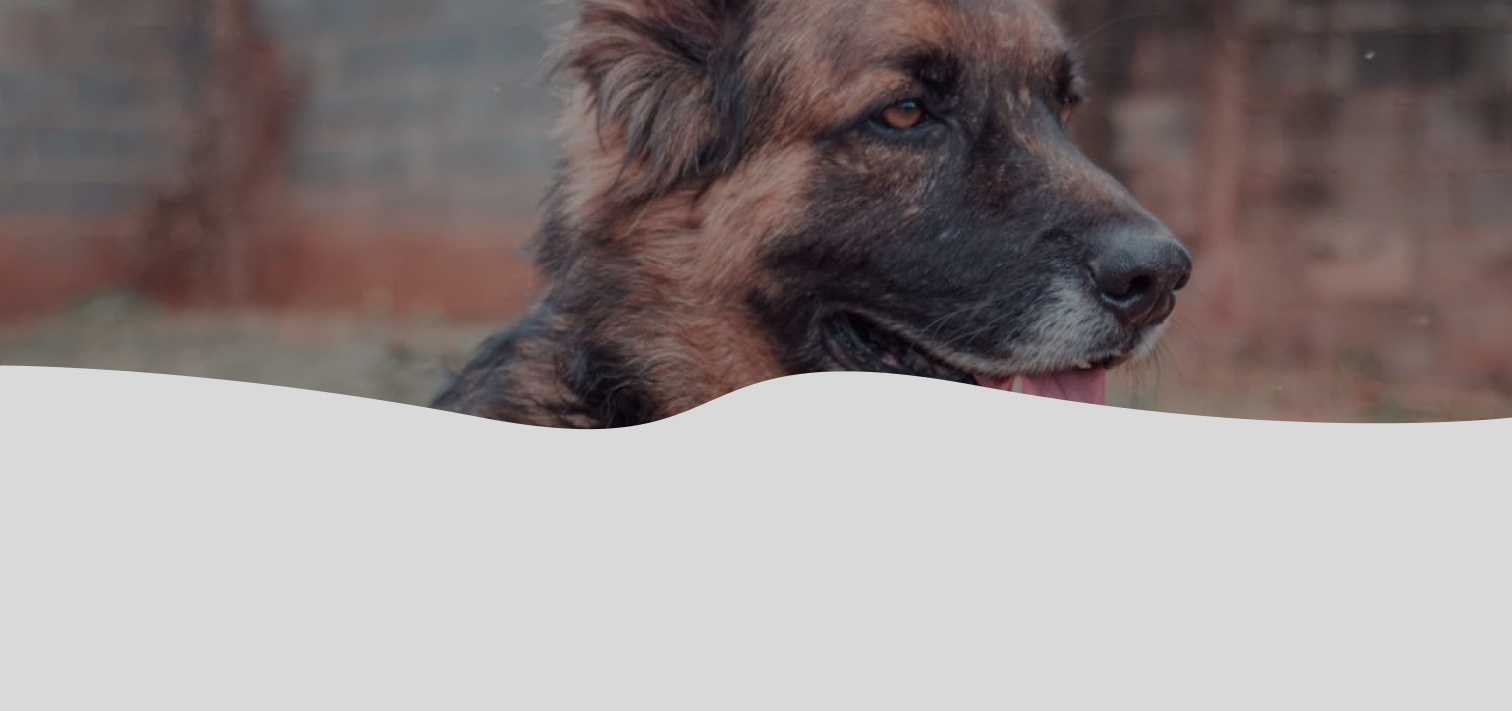
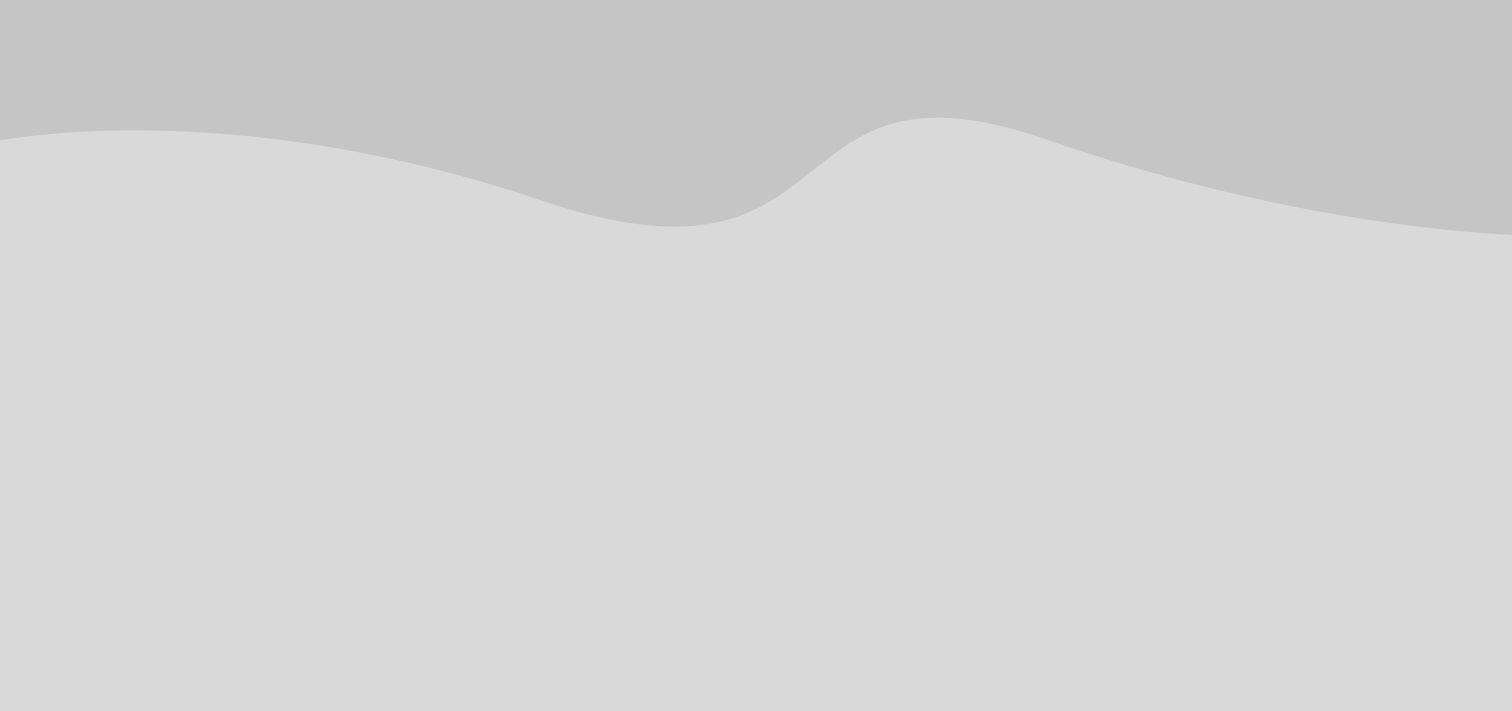
feat: carousel content

diff --git a/src/components/carousel/carousel.component.tsx b/src/components/carousel/carousel.component.tsx
@@ -1,0 +1,57 @@
+import React from 'react';
+import * as S from './carousel.styles';
+import { Virtual, Navigation, Pagination, FreeMode, Autoplay } from 'swiper';
+import { Swiper, SwiperSlide } from 'swiper/react';
+// Import Swiper styles
+import 'swiper/css';
+import 'swiper/css/pagination';
+import 'swiper/css/navigation';
+// install Virtual module
+
+export function Carousel() {
+  return (
+    <>
+      <S.Container>
+        <Swiper
+          slidesPerView={3}
+          spaceBetween={30}
+          freeMode={true}
+          autoplay={{
+            delay: 900,
+            disableOnInteraction: false,
+          }}
+          pagination={{
+            clickable: true,
+          }}
+          modules={[FreeMode, Pagination, Autoplay]}
+          className='mySwiper'
+        >
+          <SwiperSlide>
+            <S.Card>
+              <img src='https://i.im.ge/2022/08/03/FC32AT.dog1.png' alt='' />
+              <S.CardBody>
+                <S.Name>Billy</S.Name>
+              </S.CardBody>
+            </S.Card>
+          </SwiperSlide>
+          <SwiperSlide>
+            <S.Card>
+              <img src='https://i.im.ge/2022/08/03/FC32AT.dog1.png' alt='' />
+              <S.CardBody>
+                <S.Name>Billy</S.Name>
+              </S.CardBody>
+            </S.Card>
+          </SwiperSlide>
+          <SwiperSlide>
+            <S.Card>
+              <img src='https://i.im.ge/2022/08/03/FC32AT.dog1.png' alt='' />
+              <S.CardBody>
+                <S.Name>Billy</S.Name>
+              </S.CardBody>
+            </S.Card>
+          </SwiperSlide>
+        </Swiper>
+      </S.Container>
+    </>
+  );
+}

diff --git a/src/components/carousel/carousel.styles.ts b/src/components/carousel/carousel.styles.ts
@@ -1,0 +1,47 @@
+import styled from 'styled-components';
+
+export const Container = styled.div`
+  padding-top: 20vh;
+  height: 100vh;
+  .swiper {
+    width: 50%;
+    height: 500px;
+  }
+
+  .swiper-slide {
+    text-align: center;
+    font-size: 18px;
+    background-color: white;
+    /* Center slide text vertically */
+    display: -webkit-box;
+    display: -ms-flexbox;
+    display: -webkit-flex;
+    display: flex;
+    -webkit-box-pack: center;
+    -ms-flex-pack: center;
+    -webkit-justify-content: center;
+    justify-content: center;
+    -webkit-box-align: center;
+    -ms-flex-align: center;
+    -webkit-align-items: center;
+    align-items: center;
+  }
+`;
+
+export const Card = styled.div`
+  padding: 10px;
+  img {
+    width: 100%;
+    height: 100%;
+  }
+`;
+
+export const CardBody = styled.div`
+  text-align: center;
+`;
+
+export const Name = styled.p`
+  color: var(--black);
+  font-size: 50px;
+  font-family: var(--font-third);
+`;

diff --git a/src/pages/general/home/home.styles.ts b/src/pages/general/home/home.styles.ts
@@ -148,8 +148,7 @@ export const ThirdContainer = styled.div`
 export const FourthContainer = styled.div`
   height: 100vh;
   width: 100vw;
-  background-image: linear-gradient(rgba(0, 0, 0, 0.5), rgba(0, 0, 0, 0.5)),
-    url(${img2});
+  background-image: url(${img2});
   /* Position and center the image to scale nicely on all screens */
   background-position: center;
   background-repeat: no-repeat;

diff --git a/src/pages/general/home/home.page.tsx b/src/pages/general/home/home.page.tsx
@@ -97,12 +97,7 @@ export function Home() {
         </S.ToAdopteContainer>
       </S.ThirdContainer>
       <S.FourthContainer>
-        <S.Divider />
-        <S.TitleCTA>
-          Com apenas R$1,00 você ajuda centenas de peludinhos
-        </S.TitleCTA>
-
-        <C.Button text='Quero Doar' />
+        <C.Carousel />
       </S.FourthContainer>
 
       <h1>Home</h1>

diff --git a/src/components/header/header.component.tsx b/src/components/header/header.component.tsx
@@ -1,9 +1,6 @@
 import React from 'react';
 import * as S from './header.styles';
 
-import { FontAwesomeIcon } from '@fortawesome/react-fontawesome';
-import { faCoffee } from '@fortawesome/free-solid-svg-icons';
-
 export function Header() {
   const [navBg, setNavBg] = React.useState(false);
 

diff --git a/src/components/index.ts b/src/components/index.ts
@@ -2,3 +2,4 @@ export * from './header';
 export * from './button';
 export * from './transitionBox';
 export * from './Texts';
+export * from './carousel';

diff --git a/src/components/carousel/index.ts b/src/components/carousel/index.ts
@@ -1,0 +1,1 @@
+export * from './carousel.component';
